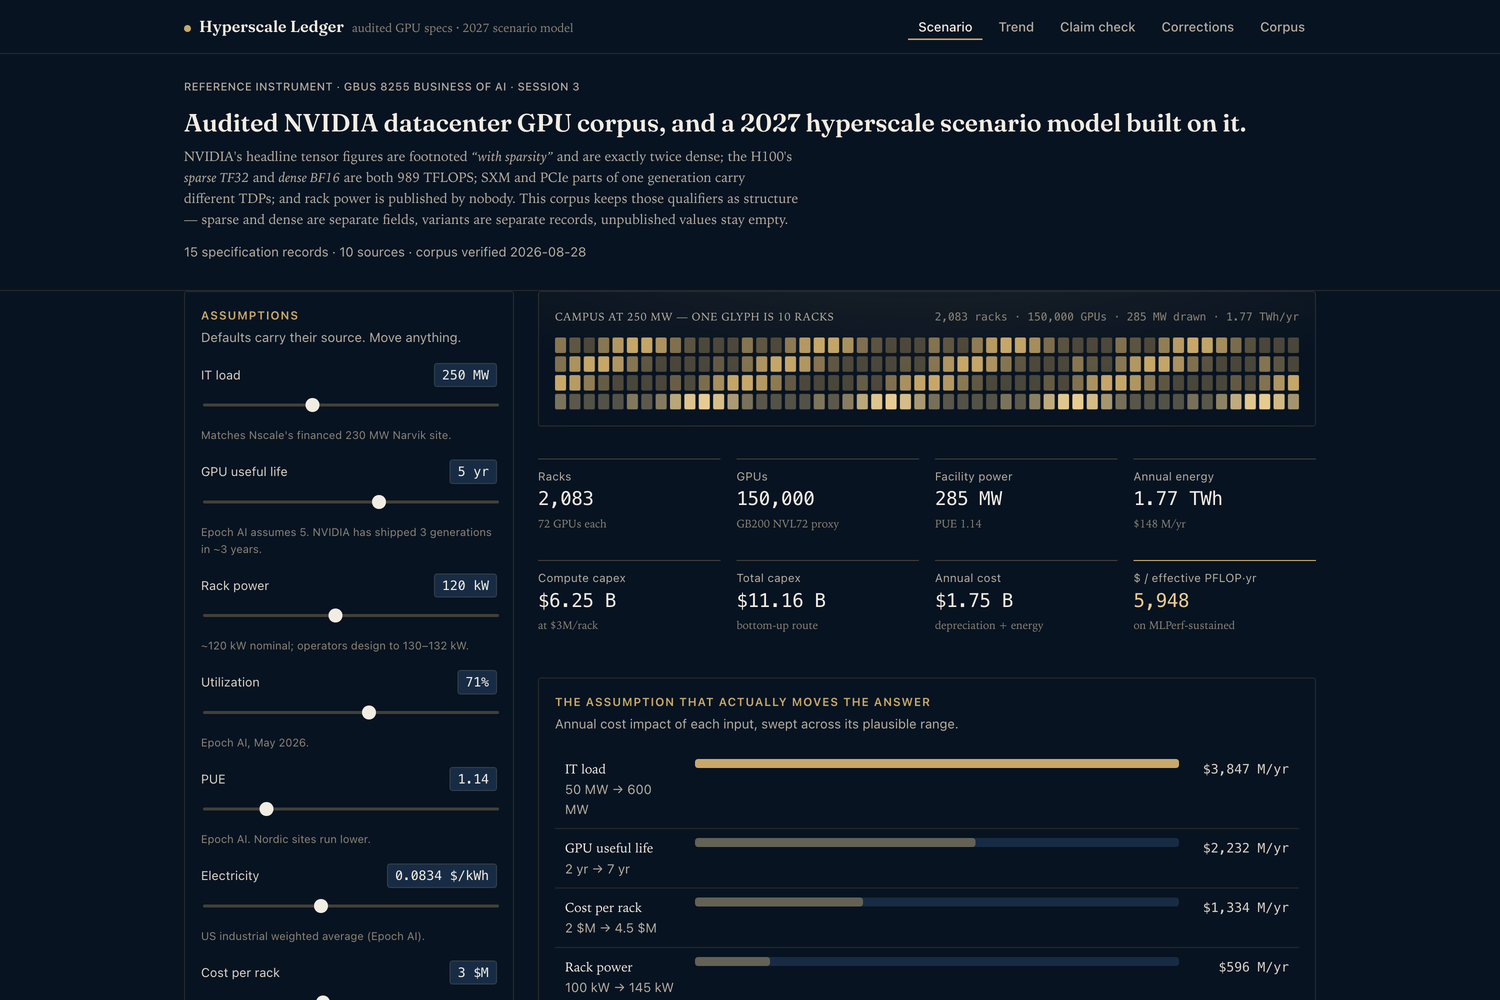
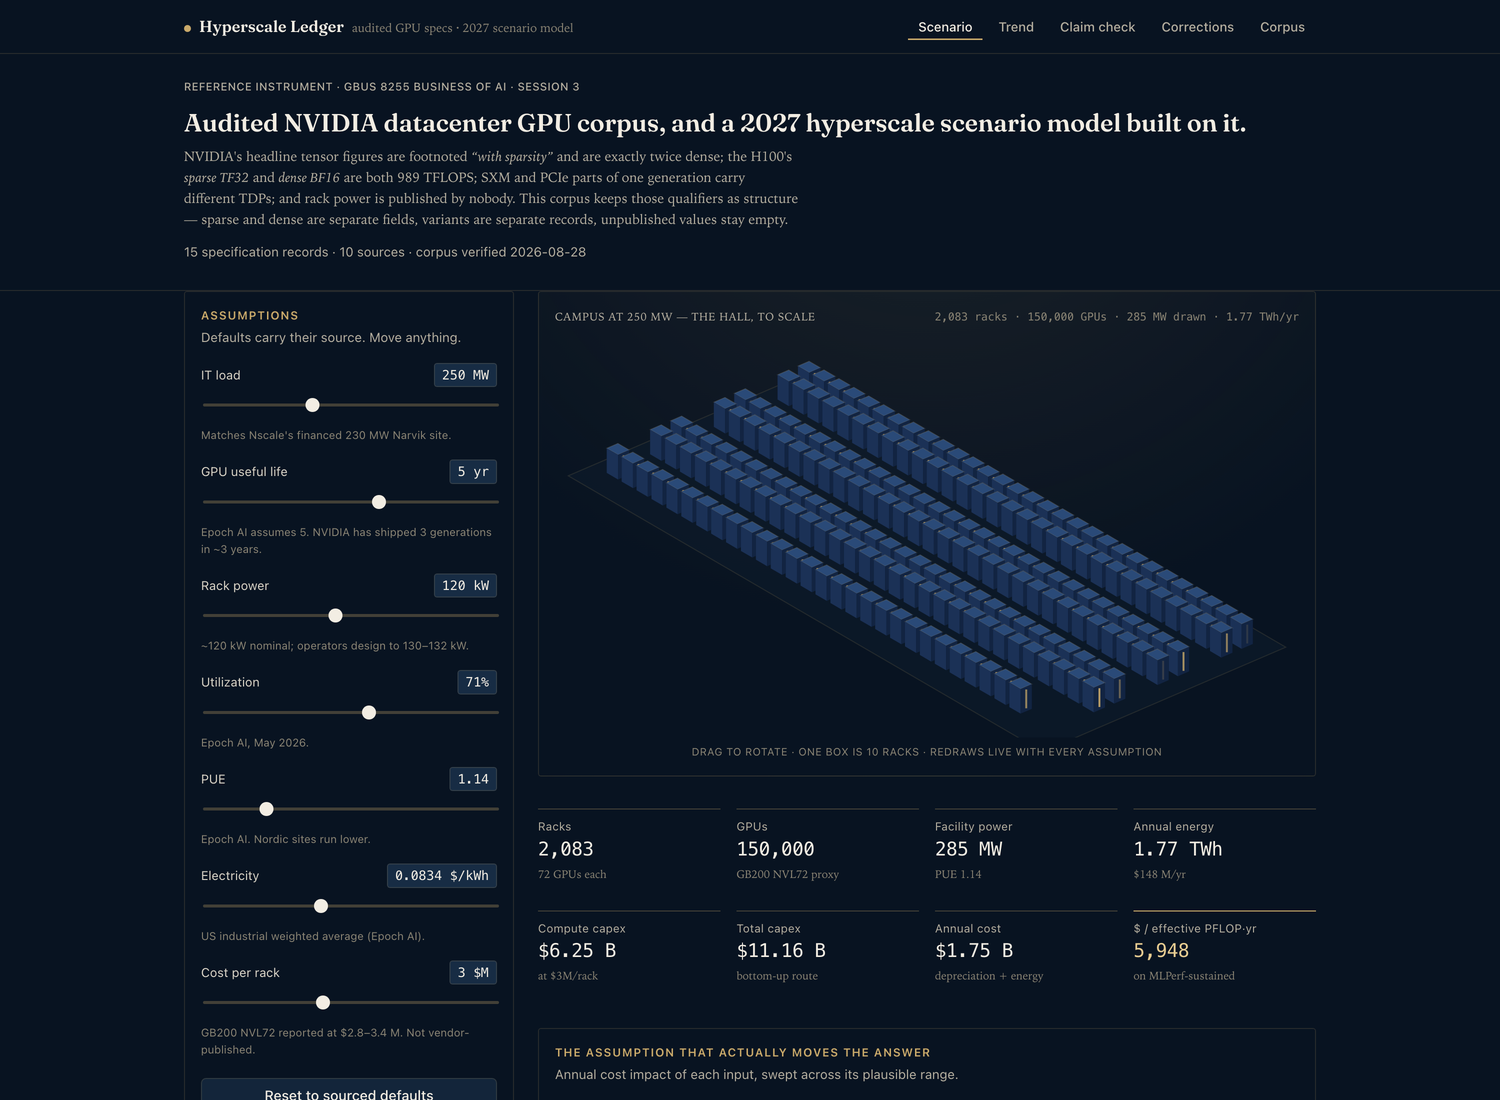
Regenerate hero and campus GIF from the isometric hall

diff --git a/README.md b/README.md
@@ -15,9 +15,9 @@
 
 <br><br>
 
-<img src="docs/campus.gif" alt="The campus grid redrawing as IT load sweeps from 90 to 590 MW — one glyph is ten GB200 NVL72 racks" width="100%">
+<img src="docs/campus.gif" alt="The interactive isometric hall growing as IT load sweeps 90 to 570 MW — one box is ten GB200 NVL72 racks" width="100%">
 
-<sub><b>Every glyph is ten real racks.</b> The grid is drawn from the model, not decoration — it redraws as IT load sweeps 90 → 590 MW, and the counts above it are live.</sub>
+<sub><b>Every box is ten real racks.</b> The hall is drawn from the model, not decoration — <b>drag it to rotate on the live site</b>; it grows as IT load sweeps 90 → 570 MW, and the counts above it are live.</sub>
 
 </div>
 
